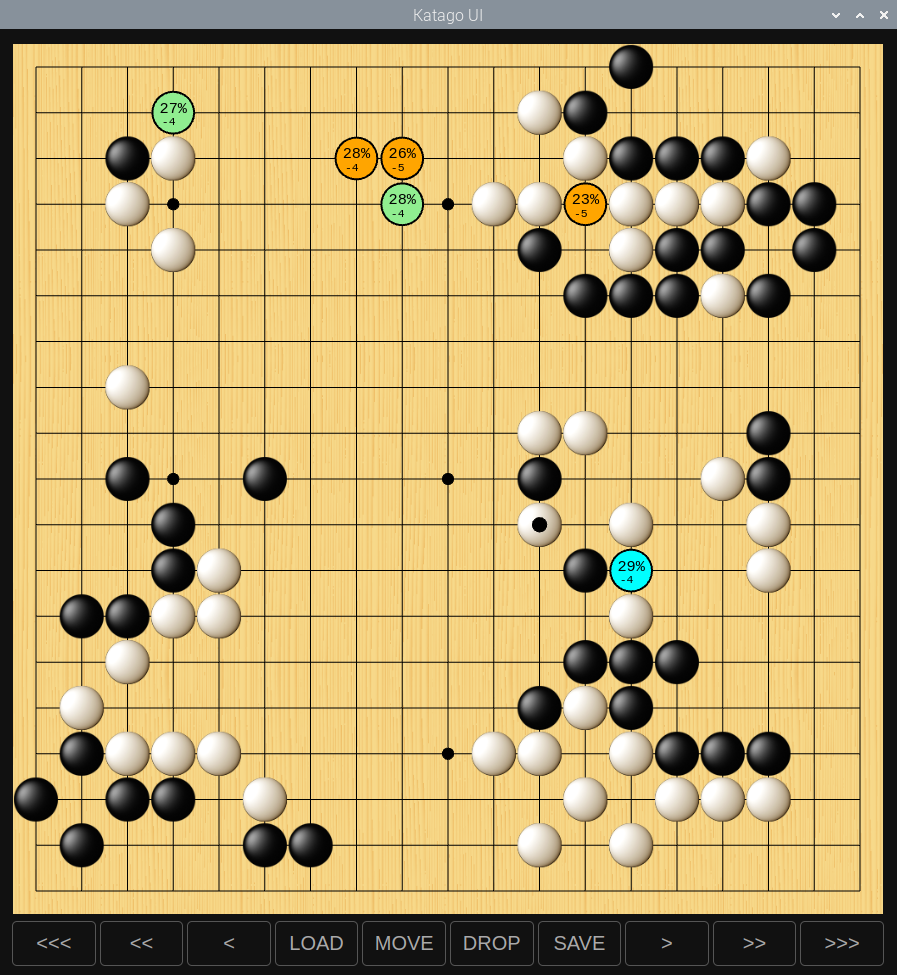
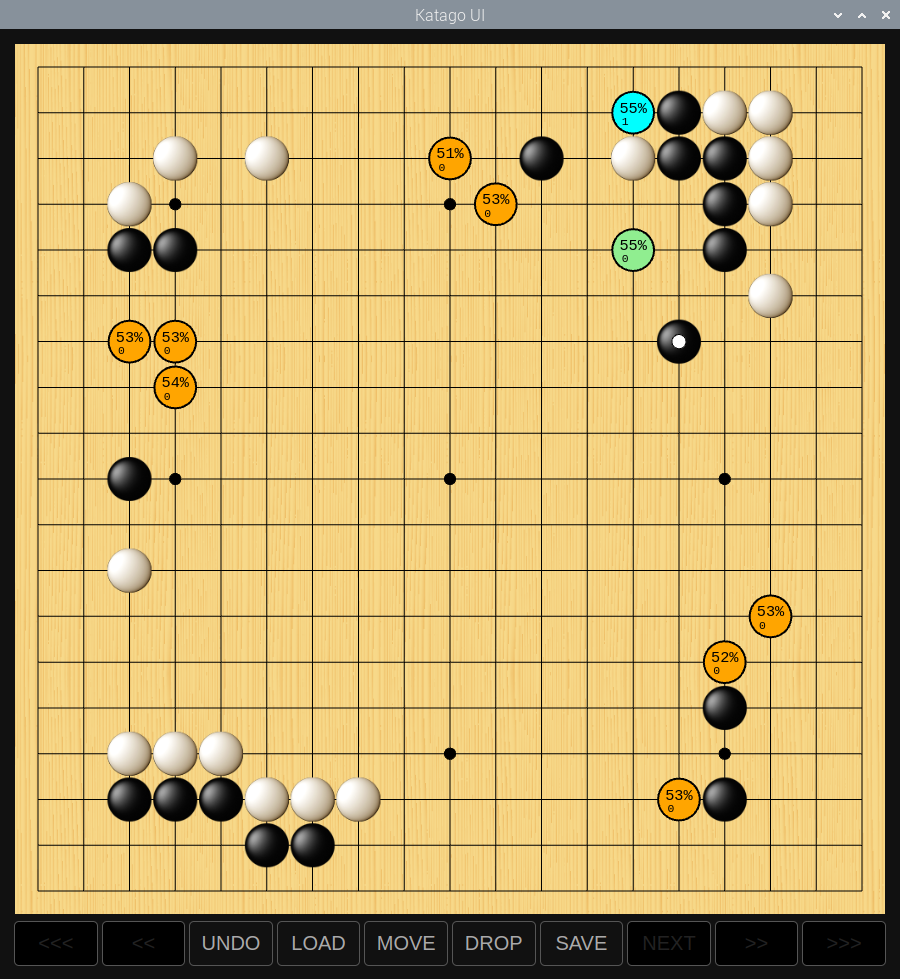
added button disable, updated screenshot

Changed region(s): [[0.0, 0.0308, 0.9989, 1.0]]

diff --git a/renderer.js b/renderer.js
@@ -120,16 +120,16 @@ function resizeCanvas() {
   resizeCanvas();
   document.getElementById('controls').innerHTML = `
     <div style="display: flex; gap: 4px; width: 100%;">                               
-      <button onclick="first();"><<<</button>
-      <button onclick="prevFew();"><<</button>
-      <button onclick="prev();"><</button>
-      <button onclick="upload();">LOAD</button>
-      <button onclick="analyze();">MOVE</button>
-      <button onclick="newGame();">DROP</button>
-      <button onclick="download();">SAVE</button>
-      <button onclick="next();">></button>
-      <button onclick="nextFew();">>></button>
-      <button onclick="last();">>>></button>
+      <button id="first" disabled="true" onclick="first();"><<<</button id="" disabled="true">
+      <button id="prevfew" disabled="true" onclick="prevFew();"><<</button id="" disabled="true">
+      <button onclick="prev();">UNDO</button id="" disabled="true">
+      <button onclick="upload();">LOAD</button id="" disabled="true">
+      <button onclick="analyze();">MOVE</button id="" disabled="true">
+      <button onclick="newGame();">DROP</button id="" disabled="true">
+      <button onclick="download();">SAVE</button id="" disabled="true">
+      <button id="next" disabled="true" onclick="next();">NEXT</button id="" disabled="true">
+      <button id="nextfew" disabled="true" onclick="nextFew();">>></button id="" disabled="true">
+      <button id="last" disabled="true" onclick="last();">>>></button id="" disabled="true">
     </div>
   `;
 })();
@@ -224,6 +224,13 @@ window.katagoAPI.onOutput((data) => {
 function newGame() {
   curmove = 1;
   currentGame = '';
+  sgf = '';
+  gamelen = 0;
+  document.getElementById('first').disabled = true;
+  document.getElementById('prevfew').disabled = true;
+  document.getElementById('next').disabled = true;
+  document.getElementById('nextfew').disabled = true;
+  document.getElementById('last').disabled = true;
   window.katagoAPI.sendCommand('clear_board');
   window.katagoAPI.sendCommand('showboard');
 }
@@ -277,6 +284,11 @@ async function upload() {
   const filePath = await window.katagoAPI.openFile();
   if (filePath) {
     sgf = filePath;
+    document.getElementById('first').disabled = false;
+    document.getElementById('prevfew').disabled = false;
+    document.getElementById('next').disabled = false;
+    document.getElementById('nextfew').disabled = false;
+    document.getElementById('last').disabled = false;
     window.katagoAPI.sendCommand('loadsgf ' + sgf);
     window.katagoAPI.sendCommand('printsgf');
   }

diff --git a/index.html b/index.html
@@ -31,7 +31,12 @@
       button:active {
         background-color: black;
         color: white;
-      }     
+      }
+      button:disabled {
+        color: #222;
+        background-color: #000;
+        pointer-events: none;
+      }
       input, select {
         padding: 10px;
         font-size: 20px;
